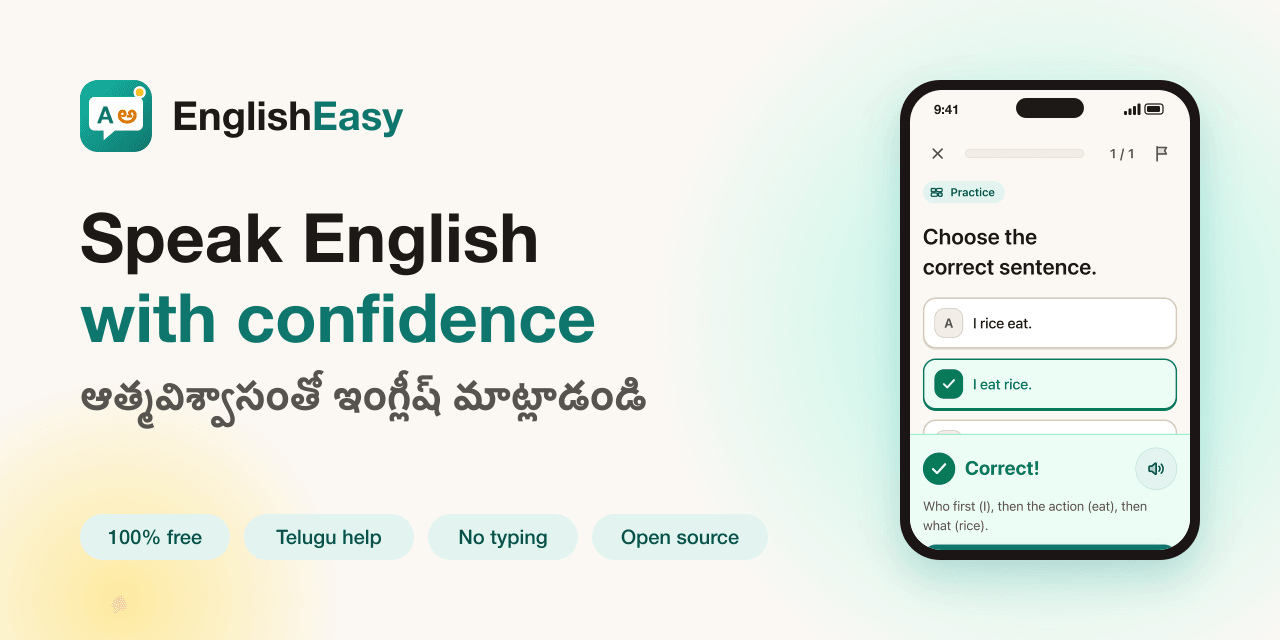
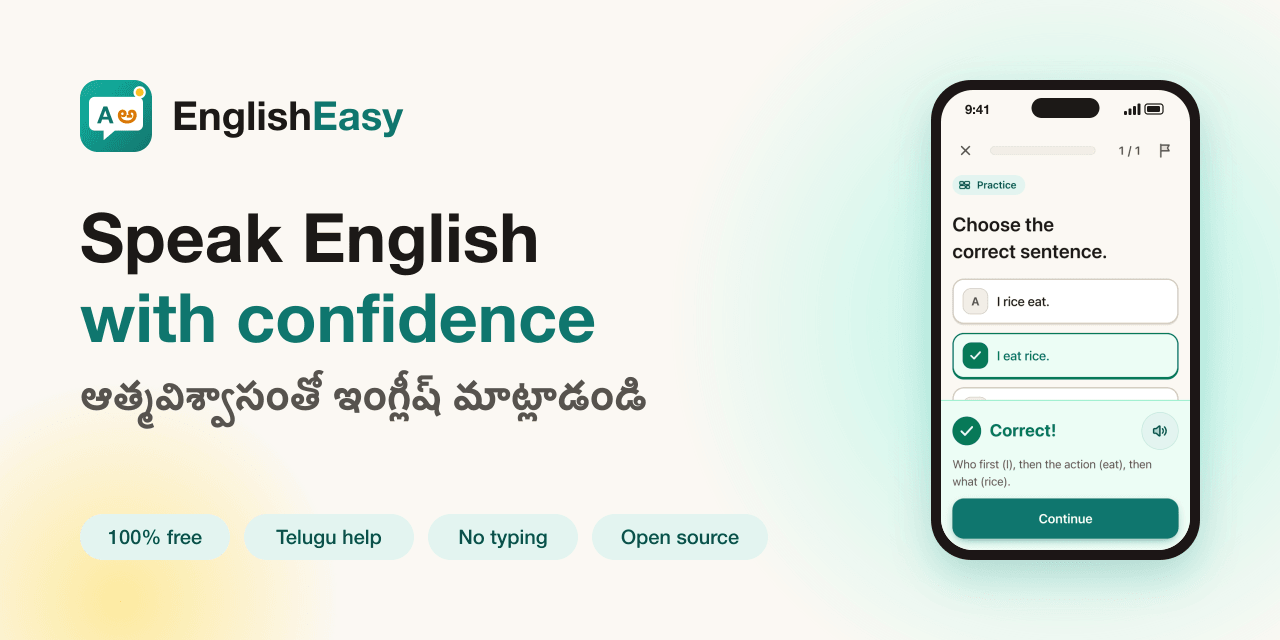
A compact lesson page progress; previews show the whole question screen
The lesson page's progress is one snug card: the % and count on one line,
a slim bar split into the lesson's parts (each as wide as its activities),
the part Continue goes to, and Start / Continue / Review with a square
Share beside it. Less padding around the hero on phones, so the lesson
shows with little scrolling. The social and link previews size the phone
to the whole question screenshot, so Continue is no longer cut off.

Changed region(s): [[0.6875, 0.125, 0.9375, 0.875], [0.875, 0.2188, 0.9375, 0.25], [0.8438, 0.1562, 0.875, 0.1875]]

diff --git a/src/components/learn/OverviewProgress.tsx b/src/components/learn/OverviewProgress.tsx
@@ -3,72 +3,103 @@
 import { Suspense, use } from "react";
 import Link from "next/link";
 import { Bi } from "@/components/ui/Bi";
-import { ProgressRing } from "@/components/ui/ProgressRing";
 import { Skeleton } from "@/components/ui/Skeleton";
-import { StepList, type StepState } from "@/components/ui/StepList";
 import { button } from "@/components/ui/button";
-import { card } from "@/components/ui/card";
+import { cardSnug } from "@/components/ui/card";
 import { Icon } from "@/components/ui/icons";
-import { SECTION_NAME } from "@/components/player/sections";
+import { SECTION_ICON, SECTION_NAME } from "@/components/player/sections";
 import type { Bi as ContentBi, PlayableDay } from "@/content/types";
-import { dayStats } from "@/learning/stats";
+import { dayStats, nextActivity } from "@/learning/stats";
 import type { Progress } from "@/learning/progress";
 import { loadLesson } from "@/lib/lesson-data";
 import { useProgress } from "@/lib/progress-store";
 import { fill, strings } from "@/lib/strings";
 import { ShareLesson } from "./ShareLesson";
 
-const STEP_STATE = { complete: "done", "in-progress": "current", "not-started": "todo" } as const satisfies Record<string, StepState>;
+const SR = { complete: strings.stepDone, "in-progress": strings.stepCurrent, "not-started": strings.stepTodo } as const;
 
 function Skeletons() {
-  return (
-    <div className="flex flex-col gap-3" aria-busy="true">
-      <Skeleton className="h-72 w-full" />
-      <Skeleton className="h-14 w-full" />
-    </div>
-  );
+  return <Skeleton aria-busy="true" className="h-48 w-full" />;
 }
 
-function Loaded({ id, progress }: { id: string; progress: Progress }) {
+/**
+ * One compact card (owner, 2026-11-08: less scrolling to the lesson itself): "37% done" with the count beside it,
+ * a slim bar split into the lesson's parts (each as wide as its activities, filled by what is done), the part
+ * Continue goes to, and Start / Continue / Review with a square Share beside it.
+ */
+function Loaded({ id, title, progress }: { id: string; title: ContentBi; progress: Progress }) {
   const day: PlayableDay = use(loadLesson(id));
   const stats = dayStats(day, progress);
   const left = stats.total - stats.done;
-  const action = stats.state === "complete" ? strings.reviewLesson : stats.state === "in-progress" ? strings.continueLesson : strings.startLesson;
+  const complete = stats.state === "complete";
+  const action = complete ? strings.reviewLesson : stats.state === "in-progress" ? strings.continueLesson : strings.startLesson;
+  const nextId = complete ? null : nextActivity(day, progress);
+  const nextIndex = nextId ? day.sections.findIndex((s) => s.activities.some((a) => a.id === nextId)) : -1;
+  const next = nextIndex >= 0 ? stats.sections[nextIndex] : null;
   return (
-    <>
-      <section aria-label={strings.overviewProgress.en} className={`${card} flex flex-col gap-5`}>
-        <div className="flex items-center gap-4">
-          <ProgressRing label={strings.progressLabel.en} value={stats.done} max={stats.total} size={76} stroke={7} tone={stats.state === "complete" ? "good" : "brand"}>
-            <span className="font-display text-lg font-bold text-ink tabular-nums">{stats.percent}%</span>
-          </ProgressRing>
-          <div className="flex flex-col">
-            <p className="font-display text-2xl font-bold text-ink tabular-nums">{fill(strings.overviewPercent, { n: stats.percent }).en}</p>
-            <p className="text-base text-ink-2">{fill(strings.overviewCount, { done: stats.done, total: stats.total, left }).en}</p>
-          </div>
-        </div>
-        <StepList steps={stats.sections.map((s) => ({ id: s.kind, label: SECTION_NAME[s.kind], state: STEP_STATE[s.state] }))} />
-      </section>
-      <Link href={`/learn/play?l=${encodeURIComponent(id)}`} className={`${button("primary", "lg")} w-full`}>
-        <Icon name={stats.state === "complete" ? "retry" : "play"} />
-        <Bi label={action} />
-      </Link>
-    </>
+    <section aria-label={strings.overviewProgress.en} className={`${cardSnug} flex flex-col gap-3`}>
+      <p className="flex flex-wrap items-baseline justify-between gap-x-3">
+        <span className="font-display text-2xl font-bold text-ink tabular-nums">{fill(strings.overviewPercent, { n: stats.percent }).en}</span>
+        <span className="text-sm text-ink-3 tabular-nums">{fill(strings.overviewShortCount, { done: stats.done, total: stats.total, left }).en}</span>
+      </p>
+      <div role="progressbar" aria-label={strings.progressLabel.en} aria-valuemin={0} aria-valuemax={stats.total} aria-valuenow={stats.done} className="flex gap-1.5">
+        {stats.sections.map((part, i) => (
+          <span key={part.kind} className={`h-2.5 overflow-hidden rounded-full bg-sunken ${i === nextIndex ? "ring-2 ring-brand/30" : ""}`} style={{ flexGrow: Math.max(part.total, 1), flexBasis: 0 }}>
+            <span
+              className={`block h-full rounded-full transition-[width] duration-500 ease-out motion-reduce:transition-none ${complete ? "bg-good" : "bg-[linear-gradient(90deg,var(--brand),color-mix(in_srgb,var(--brand)_75%,var(--accent)))]"}`}
+              style={{ width: `${part.total > 0 ? (part.done / part.total) * 100 : 0}%` }}
+            />
+          </span>
+        ))}
+      </div>
+      <ol aria-label={strings.overviewParts.en} className="sr-only">
+        {stats.sections.map((part) => (
+          <li key={part.kind}>
+            {SECTION_NAME[part.kind].en}: {SR[part.state].en}
+          </li>
+        ))}
+      </ol>
+      <p className="flex items-center gap-2 text-base">
+        {next ? (
+          <>
+            <span aria-hidden="true" className="flex size-7 shrink-0 items-center justify-center rounded-full bg-brand-soft text-brand-ink">
+              <Icon name={SECTION_ICON[next.kind]} className="size-4" />
+            </span>
+            <span className="min-w-0 flex-1 font-semibold text-ink">{fill(strings.overviewNext, { part: SECTION_NAME[next.kind] }).en}</span>
+            <span className="text-sm text-ink-3 tabular-nums">{fill(strings.overviewPartCount, { done: next.done, total: next.total }).en}</span>
+          </>
+        ) : (
+          <>
+            <span aria-hidden="true" className="flex size-7 shrink-0 items-center justify-center rounded-full bg-good text-surface">
+              <Icon name="check" className="size-4" strokeWidth={3} />
+            </span>
+            <span className="font-semibold text-good">{strings.overviewAllDone.en}</span>
+          </>
+        )}
+      </p>
+      <div className="flex gap-2">
+        <Link href={`/learn/play?l=${encodeURIComponent(id)}`} className={`${button("primary", "md")} flex-1`}>
+          <Icon name={complete ? "retry" : "play"} className="size-5" />
+          <Bi label={action} />
+        </Link>
+        <ShareLesson id={id} title={title} iconOnly />
+      </div>
+    </section>
   );
 }
 
-/** The lesson overview's client part: progress, section checklist, Start / Continue / Review and Share. Drawn after hydration. */
+/** The lesson overview's client part: progress by part, Start / Continue / Review and Share. Drawn after hydration. */
 export function OverviewProgress({ id, title }: { id: string; title: ContentBi }) {
   const progress = useProgress();
   return (
-    <div className="flex flex-col gap-3">
+    <>
       {progress ? (
         <Suspense fallback={<Skeletons />}>
-          <Loaded id={id} progress={progress} />
+          <Loaded id={id} title={title} progress={progress} />
         </Suspense>
       ) : (
         <Skeletons />
       )}
-      <ShareLesson id={id} title={title} />
-    </div>
+    </>
   );
 }

diff --git a/src/components/learn/ShareLesson.tsx b/src/components/learn/ShareLesson.tsx
@@ -9,8 +9,11 @@ import type { Bi as ContentBi } from "@/content/types";
 import { useLearnIn } from "@/lib/settings-store";
 import { fill, strings } from "@/lib/strings";
 
-/** Share this lesson (or, with `label`, `line` and `path`, a week): the phone's share sheet (`navigator.share`), or a copied link with a short message. */
-export function ShareLesson({ id, title, label = strings.shareLesson, line = strings.shareLine, path }: { id: string; title: ContentBi; label?: ContentBi; line?: ContentBi; path?: string }) {
+/**
+ * Share this lesson (or, with `label`, `line` and `path`, a week): the phone's share sheet (`navigator.share`), or a
+ * copied link with a short message. `iconOnly` draws a square icon button (its name is the label), e.g. beside Continue.
+ */
+export function ShareLesson({ id, title, label = strings.shareLesson, line = strings.shareLine, path, iconOnly = false }: { id: string; title: ContentBi; label?: ContentBi; line?: ContentBi; path?: string; iconOnly?: boolean }) {
   const learnIn = useLearnIn();
   const [message, setMessage] = useState<string | null>(null);
   const timer = useRef<ReturnType<typeof setTimeout>>(undefined);
@@ -43,10 +46,16 @@ export function ShareLesson({ id, title, label = strings.shareLesson, line = str
 
   return (
     <>
-      <button type="button" onClick={share} className={`${button("secondary")} w-full`}>
-        <Icon name="share" />
-        <Bi label={label} />
-      </button>
+      {iconOnly ? (
+        <button type="button" onClick={share} aria-label={label.en} title={label.en} className={button("secondary", "icon")}>
+          <Icon name="share" />
+        </button>
+      ) : (
+        <button type="button" onClick={share} className={`${button("secondary")} w-full`}>
+          <Icon name="share" />
+          <Bi label={label} />
+        </button>
+      )}
       {message && <Toast className="fixed inset-x-0 bottom-24 z-20 px-4">{message}</Toast>}
     </>
   );

diff --git a/src/app/lessons/[id]/page.tsx b/src/app/lessons/[id]/page.tsx
@@ -184,7 +184,7 @@ export default async function LessonPage({
             <div className="absolute -top-32 -left-24 size-[28rem] rounded-full bg-[radial-gradient(closest-side,rgb(20_184_166/0.18),transparent)]" />
             <div className="absolute -top-24 right-[-8rem] size-[28rem] rounded-full bg-[radial-gradient(closest-side,rgb(251_191_36/0.18),transparent)]" />
           </div>
-          <div className="mx-auto flex max-w-5xl flex-col gap-4 px-5 pt-10 pb-12">
+          <div className="mx-auto flex max-w-5xl flex-col gap-4 px-5 pt-6 pb-8 sm:pt-10 sm:pb-12">
             <p className="flex flex-wrap items-center gap-2">
               <span className={badge("brand")}>{fill(strings.overviewDayLabel, { n: place.number }).en}</span>
               {day.kind === "lesson" && <span className={badge("neutral")}>{day.subtitle}</span>}
@@ -209,7 +209,7 @@ export default async function LessonPage({
           </div>
         </section>
 
-        <div className="mx-auto grid max-w-5xl gap-10 px-5 py-10 lg:grid-cols-[1fr_22rem] lg:items-start">
+        <div className="mx-auto grid max-w-5xl gap-8 px-5 py-6 sm:gap-10 sm:py-10 lg:grid-cols-[1fr_22rem] lg:items-start">
           <div className="order-2 flex flex-col gap-10 lg:order-1">
             {day.kind === "lesson" && (
               <article className="flex flex-col gap-10">

diff --git a/e2e/progress.spec.ts b/e2e/progress.spec.ts
@@ -37,6 +37,9 @@ test("half of Day 1, reload, Continue resumes at the same activity", async ({ pa
   await page.goto("/lessons/sentence-basics");
   await expect(page.getByRole("link", { name: /^Continue/ })).toBeVisible();
   await expect(page.getByText(/% done/)).not.toContainText("0% done");
+  await expect(page.getByText("Next: Practice")).toBeVisible(); // the part Continue goes to
+  await page.getByRole("region", { name: "Your progress" }).screenshot({ path: `${SHOTS}/overview-under-way.png` });
+  await page.screenshot({ path: `${SHOTS}/overview-under-way-page.png` });
   await page.getByRole("link", { name: /^Continue/ }).click();
   await expect(page.getByRole("button", { name: "speak", exact: true })).toBeVisible();
 });
@@ -70,6 +73,8 @@ for (const theme of ["light", "dark"] as const) {
 
     await page.goto("/lessons/sentence-basics");
     await expect(page.getByText("100% done")).toBeVisible();
+    await expect(page.getByText("Every part done")).toBeVisible();
+    await expect(page.getByRole("button", { name: "Share this lesson" })).toBeVisible(); // a square beside Review
     await expect(page.getByRole("link", { name: /^Review/ })).toBeVisible();
     await page.screenshot({ path: `${SHOTS}/overview${suffix}.png`, fullPage: true });
 

diff --git a/src/lib/strings.ts b/src/lib/strings.ts
@@ -272,6 +272,11 @@ export const strings = {
   overviewProgress: { en: "Your progress", te: "మీ ప్రోగ్రెస్" },
   overviewCount: { en: "{done} of {total} done · {left} left", te: "{total} లో {done} పూర్తి · {left} మిగిలాయి" },
   overviewPercent: { en: "{n}% done", te: "{n}% పూర్తి" },
+  overviewShortCount: { en: "{done} of {total} · {left} left", te: "{total} లో {done} · {left} మిగిలాయి" },
+  overviewParts: { en: "Parts of this lesson", te: "ఈ పాఠంలోని భాగాలు" },
+  overviewNext: { en: "Next: {part}", te: "తర్వాత: {part}" },
+  overviewPartCount: { en: "{done} of {total}", te: "{total} లో {done}" },
+  overviewAllDone: { en: "Every part done", te: "అన్ని భాగాలు పూర్తయ్యాయి" },
   overviewPlanned: { en: "This lesson is not ready yet.", te: "ఈ పాఠం ఇంకా సిద్ధంగా లేదు." },
   startLesson: { en: "Start", te: "మొదలుపెట్టు" },
   continueLesson: { en: "Continue", te: "కొనసాగించు" },

diff --git a/src/components/ui/card.ts b/src/components/ui/card.ts
@@ -11,6 +11,9 @@ export const cardFlush = `${SURFACE} overflow-hidden`;
 /** A card holding a path (Journey's stages and tracks): less padding on phones, so lesson names get the width. */
 export const cardPath = `${SURFACE} p-3 sm:p-5`;
 
+/** A snug card for a compact panel (the lesson page's progress). */
+export const cardSnug = `${SURFACE} p-4`;
+
 /** A card that is a link or button as a whole. */
 export const cardLink = `${SURFACE} block p-5 outline-none transition-[border-color,box-shadow,transform] duration-150 hover:border-brand/40 hover:shadow-raised active:scale-[0.99] focus-visible:ring-[3px] focus-visible:ring-brand/60 motion-reduce:transition-none motion-reduce:active:scale-100`;
 

diff --git a/docs/BUILD_PLAN.md b/docs/BUILD_PLAN.md
@@ -757,6 +757,13 @@ As Step 13, for `present-continuous-right-now` and `past-simple-yesterday` (CURR
 - **Lesson pages:** the header's Home button becomes Journey (map icon; "Journey" from tablets up), to `/learn/journey?day=<id>`, which opens that lesson's week (and its stage) and scrolls to it. Privacy keeps My lessons. The footer's section links point to `/#…`, so they work off the landing page too.
 - **Done when:** unit tests cover the Next row and button, done days, the week's day count and `?day=`; e2e covers the lesson page's Journey link and a Journey with progress in Day/A and Night/A++ (no sideways scrolling); lint, typecheck, unit and e2e pass.
 
+## After launch: a compact lesson page progress (owner request)
+
+- **Why:** on phones the lesson page's progress (a ring, "37% done", a six-row checklist, then Continue and a full-width Share) filled a whole screen before the lesson itself (owner's iPhone screenshot, 2026-11-08). Asked: simple, less space, modern.
+- **Now one snug card** (`cardSnug`): "37% done" with "7 of 19 · 12 left" on the same line; a slim bar split into the lesson's parts (each as wide as its activities, filled by what is done; the part Continue goes to has a soft ring; the parts and their states are a screen-reader list); one line "Next: Practice · 1 of 8" with the part's icon ("Every part done" when finished); Start / Continue / Review with a square Share beside it (`ShareLesson iconOnly`). About a third of the old height. The hero and the content below it have less padding on phones.
+- **Social and link previews:** the phone is as wide as the whole question screenshot needs, so its Continue button is no longer cut off.
+- **Done when:** e2e checks "Next: Practice" on a lesson under way and "Every part done" plus the square Share on a finished one; lint, typecheck, unit and e2e pass.
+
 # Part D — Progress
 
 | Step | Name | Status | Notes |
@@ -795,6 +802,7 @@ As Step 13, for `present-continuous-right-now` and `past-simple-yesterday` (CURR
 | – | Free and open source, clearly (owner request, 2026-11-08) | ✅ 2026-11-08 | Landing leads with free: hero pill "100% free · No ads · Telugu help", "Free, with no sign-up and no ads" under Start, "Free for everyone" card (adds "The code is open source, too"), footer line "Free, and open source under the MIT license" with Source code (new `github` icon) and MIT license (new `code` icon) links; FAQ "Is EnglishEasy free?" names the MIT license, and the two outdated answers (slow for every sentence, phone voices) follow the recorded voice. Title and description lead with "spoken English through Telugu, free"; structured data adds a `WebApplication` (free, MIT, `sameAs` the repository). README says free and open source at the top, links the live site, and ends with a "Free and open source" section; its Launch check explains Search Console (URL-prefix property, HTML tag, submit `/sitemap.xml`). Sitemap and robots unchanged (already live-only, with every released lesson). Checked against Google's SEO Starter Guide: lesson pages now have a canonical link, link-preview tags and a `BreadcrumbList` (EnglishEasy › Day N: title) next to their `LearningResource`; `e2e/progress.spec.ts` checks both. Live site: https://learn-english-in-telugu.vercel.app. |
 | – | README screenshots, real phone frames, clips in every case (owner, 2026-11-08) | ✅ 2026-11-08 | README shows the eight phone screens (`docs/screenshots/`, refreshed from `e2e/capture.spec.ts`) in a 4 × 2 table. `PhoneFrame` draws a status bar (time, camera pill, signal, battery; sized with container units) above the screen, so the camera no longer covers the app's top row; the social and link previews draw the same, and their pills read 100% free · Telugu help · No typing · Open source. The hero's decorative logo badge (it covered the second phone's button) is gone. Settings → Voice removed (`VoiceSettings.tsx` and its strings, the e2e test): the phone voice is an automatic backup only; `src/content/audio-coverage.test.ts` requires a clip for every spoken text of every released day. |
 | – | A Journey page worth living in (owner request, 2026-11-08) | ✅ 2026-11-08 (lint, typecheck, 454 unit and 87 e2e tests pass) | See the section. Also: the lesson page's header leads to Journey at that lesson; the footer's section links work from lesson pages and privacy (`/#…`). |
+| – | A compact lesson page progress (owner request, 2026-11-08) | ✅ 2026-11-08 (lint, typecheck, 454 unit and 87 e2e tests pass) | See the section. Also: the social and link previews show the whole question screen, Continue included. |
 | – | Production look, part 6: finish | ☐ | |
 
 ## Content released

diff --git a/docs/VISION.md b/docs/VISION.md
@@ -636,3 +636,4 @@ Every feature should support that goal.
 | 2026-11-08 | Voice (owner): one consistent voice on every device instead of the phone's own voices. Audio is made ahead of time as files (like lesson text, so still no AI or paid service at runtime): an Indian female voice reads each question in full, English and Telugu together ("I walk every morning." అంటే ఏమిటి?), without quote marks. The Telugu part of questions is read aloud from now on (changes the 2026-11-08 audio row for questions). The device voice stays as the fallback for any sentence without a file. Chosen route: Microsoft Edge's free voices via `msedge-tts` at build time (te-IN Shruti, en-IN Neerja), samples first. |
 | 2026-11-08 | Recorded clips in every case (owner): Settings no longer offers a voice choice or sample (replaces §10.9's Voice line). The phone's voice is only an automatic, silent backup (an Indian English voice picked by itself) for a clip that can't load or play; a unit test fails if any sentence a released day reads aloud has no clip, so `npm run audio` is part of every content change. |
 | 2026-11-08 | Journey (owner): Journey is the main page, so it reads at a glance on any phone (refines §10.3). One path line through numbered week and day circles (tick when done, an arc while in progress); each name gets the full width with its status in a small line under it, no % pills; the next lesson is tinted with its own Start / Continue button and scrolled into view. A lesson page's header leads to Journey, opened at that lesson (privacy keeps My lessons). |
+| 2026-11-08 | Lesson page progress (owner): one compact card, so the lesson shows with little scrolling: the % and count on one line, a slim bar split into the lesson's parts, the part Continue goes to, and Start / Continue / Review with a square Share. Replaces the section checklist. |
